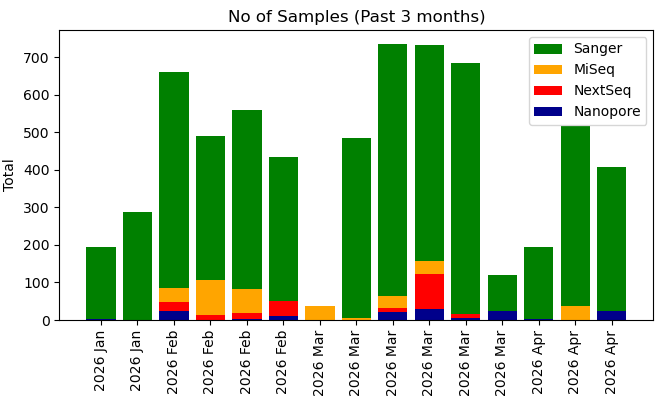
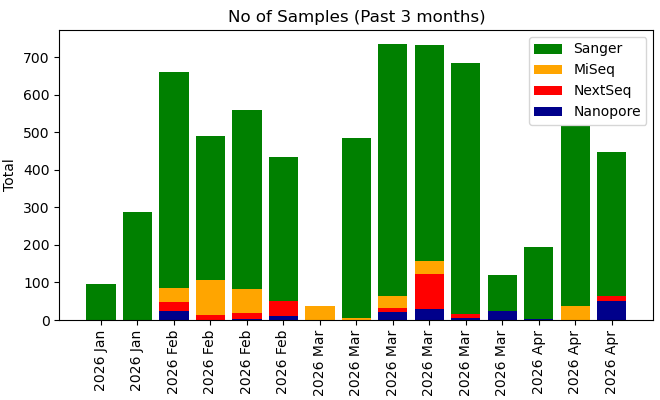
Your commit message here

Changed region(s): [[0.1212, 0.6, 0.1818, 0.72], [0.8788, 0.72, 0.9697, 0.78], [0.8788, 0.36, 0.9697, 0.42]]

diff --git a/krona/cgs.html b/krona/cgs.html
@@ -52,8 +52,8 @@ body {
   flex-direction: column;
 }
 </style>
-<H1>Genomics Facility Status: 07:00:17, 17/04/2026</H1>
-<marquee behavior="scroll" scrollamount="20" direction="left" bgcolor="lightgrey">AGAGTTTGATCCTGGCTCAGGATAAACGCTGGCGGCGCACATAAGACATGCAAGTCGAACGGAAGTCGTTATAAAAGGAGAGAAGATTTATCGGATTGAATTCTATAACAATGGCTTTAGTGGCGGACTGGTGAGTAACGCGTAAGGAACCTACCTATTAGAGGGGAACAACAATGAGAAATCATTGCTAATACCGCATATGCCATAACTACCACATGGTAGAAGGGGGAAAGGAGTAATCCGCTGAT</marquee>
+<H1>Genomics Facility Status: 07:00:15, 18/04/2026</H1>
+<marquee behavior="scroll" scrollamount="20" direction="left" bgcolor="lightgrey">AGAGTTTGATCCTGGCTCAGGATGAACGCTGGCGGCGTGCTTAACACATGAAAGTCGAGCGGAGCGGCTGAATAGGTTGATTGGAAAATTTTTAGTTGAGTGAGCGGAGGATGGGTGAGTAACAGGTGGGTGAGTGGTCAATGACGGGGGGGGAAAAGCTGGAGACGGAGGATAGTAACGTCGCAACGCCTGGAGATGTAAGGGTTAGGGTGTAAGAAACTGGTGGACTGGGAGTAGTATGCGGGTGGTT</marquee>
 <TABLE BORDER=0><TR><TD><TABLE class="styled-table"><H3>GigaBases Sequenced</H3>
-<TR><TD><b>Platform</b></TD><TD><b>Week</b></TD><TD><b>Month</b></TD><TD><b>Year</b></TD><TD><b>Total</b></TD></TR><TR><TD>Illumina MiSeq</TD><TD>0.0</TD><TD>15.91</TD><TD>343.16</TD><TD>525.02</TD></TR><TR><TD>Illumina NextSeq</TD><TD>0.0</TD><TD>214.84</TD><TD>4442.84</TD><TD>6463.94</TD></TR><TR><TD>Nanopore PromethION</TD><TD>110.28</TD><TD>771.67</TD><TD>7401.87</TD><TD>11989.93</TD></TR><TR><TD>Sanger</TD><TD>0.0</TD><TD>0.0</TD><TD>0.02</TD><TD>0.04</TD></TR></TABLE></TD><TD><IMG SRC="fig1.png"><IMG SRC="fig2.png"></TD></TR><TR><TD><H3>No. Samples (No. Experiments)</H3>
-<TABLE class="styled-table"><TR><TD><b>Platform</b></TD><TD><b>Week</b></TD><TD><b>Month</b></TD><TD><b>Year</b></TD><TD><b>Total</b></TD></TR><TR><TD>Illumina MiSeq</TD><TD>0 (0)</TD><TD>70 (2)</TD><TD>1436 (69)</TD><TD>2374 (94)</TD></TR><TR><TD>Illumina NextSeq</TD><TD>0 (1)</TD><TD>106 (4)</TD><TD>1343 (65)</TD><TD>2085 (84)</TD></TR><TR><TD>Nanopore PromethION</TD><TD>25 (13)</TD><TD>84 (33)</TD><TD>573 (191)</TD><TD>966 (341)</TD></TR><TR><TD>Sanger</TD><TD>576 (576)</TD><TD>2398 (2398)</TD><TD>20347 (20347)</TD><TD>43170 (43170)</TD></TR></TABLE></TD><TD><IMG SRC="fig4.png"></TD></TR></TABLE></HTML>
+<TR><TD><b>Platform</b></TD><TD><b>Week</b></TD><TD><b>Month</b></TD><TD><b>Year</b></TD><TD><b>Total</b></TD></TR><TR><TD>Illumina MiSeq</TD><TD>0.0</TD><TD>15.91</TD><TD>335.27</TD><TD>525.02</TD></TR><TR><TD>Illumina NextSeq</TD><TD>78.05</TD><TD>292.88</TD><TD>4520.89</TD><TD>6541.98</TD></TR><TR><TD>Nanopore PromethION</TD><TD>110.98</TD><TD>683.12</TD><TD>7402.57</TD><TD>11990.63</TD></TR><TR><TD>Sanger</TD><TD>0.0</TD><TD>0.0</TD><TD>0.02</TD><TD>0.04</TD></TR></TABLE></TD><TD><IMG SRC="fig1.png"><IMG SRC="fig2.png"></TD></TR><TR><TD><H3>No. Samples (No. Experiments)</H3>
+<TABLE class="styled-table"><TR><TD><b>Platform</b></TD><TD><b>Week</b></TD><TD><b>Month</b></TD><TD><b>Year</b></TD><TD><b>Total</b></TD></TR><TR><TD>Illumina MiSeq</TD><TD>0 (0)</TD><TD>70 (2)</TD><TD>1398 (67)</TD><TD>2374 (94)</TD></TR><TR><TD>Illumina NextSeq</TD><TD>12 (1)</TD><TD>118 (4)</TD><TD>1355 (65)</TD><TD>2097 (84)</TD></TR><TR><TD>Nanopore PromethION</TD><TD>51 (15)</TD><TD>88 (34)</TD><TD>599 (193)</TD><TD>992 (343)</TD></TR><TR><TD>Sanger</TD><TD>480 (480)</TD><TD>2398 (2398)</TD><TD>20347 (20347)</TD><TD>43170 (43170)</TD></TR></TABLE></TD><TD><IMG SRC="fig4.png"></TD></TR></TABLE></HTML>
